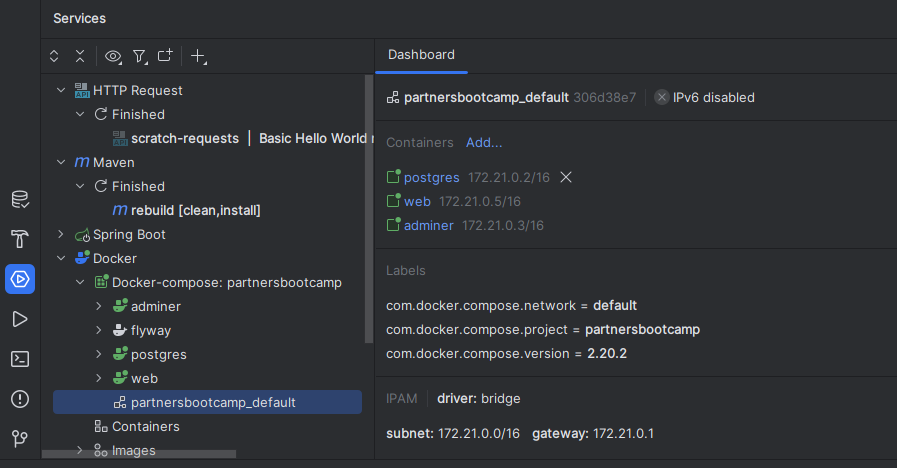
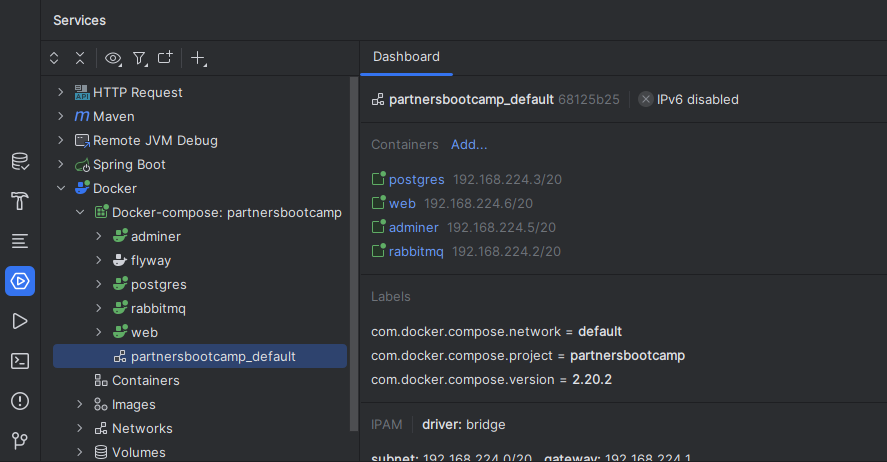
NOJIRA - Added remote debug, updated readme, cleanup

diff --git a/src/main/java/cz/devforce/partnersbootcamp/service/BusinessBootcampService.java b/src/main/java/cz/devforce/partnersbootcamp/service/BusinessBootcampService.java
@@ -11,7 +11,6 @@ import lombok.RequiredArgsConstructor;
 import lombok.extern.slf4j.Slf4j;
 import org.springframework.amqp.rabbit.annotation.RabbitListener;
 import org.springframework.stereotype.Service;
-import org.springframework.web.bind.annotation.RequestBody;
 
 import java.time.ZoneId;
 import java.time.ZonedDateTime;
@@ -29,7 +28,7 @@ public class BusinessBootcampService {
 
     private final RabbitMqProducerService rabbitMqProducerService;
 
-    public HelloDo helloWorld(@RequestBody PersonDo personDo) {
+    public HelloDo helloWorld(PersonDo personDo) {
         // Every visitor needs to be stored
         var personDao = personsRepository.save(new PersonDao(
             personDo.name(),
